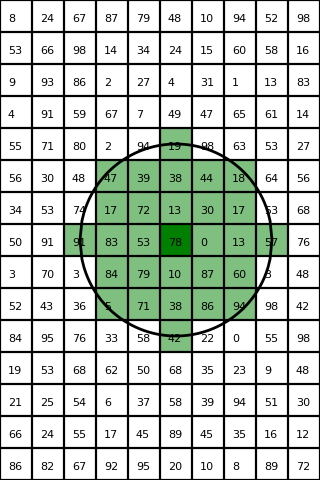
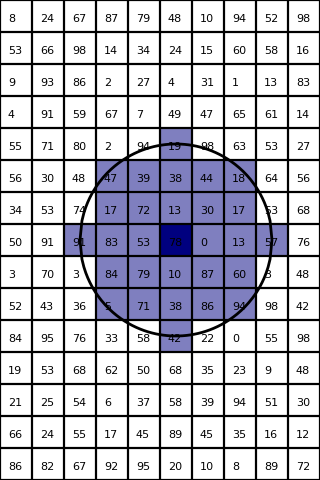
blue windows

Changed region(s): [[0.1875, 0.25, 0.9062, 0.75]]

diff --git a/create_results.py b/create_results.py
@@ -123,7 +123,7 @@ file = np.random.randint(0,99, 150).reshape(15, 10)
 make_image(file, 'figures/focal_stat_in.png')
 
 # colormap for figures that show window
-cmap = mcolors.LinearSegmentedColormap.from_list("", [(1,1,1), (0,0.5,0)])
+cmap = mcolors.LinearSegmentedColormap.from_list("", [(1,1,1), (0,0,0.5)])
 
 
 # save outputs for circle neighborhood
